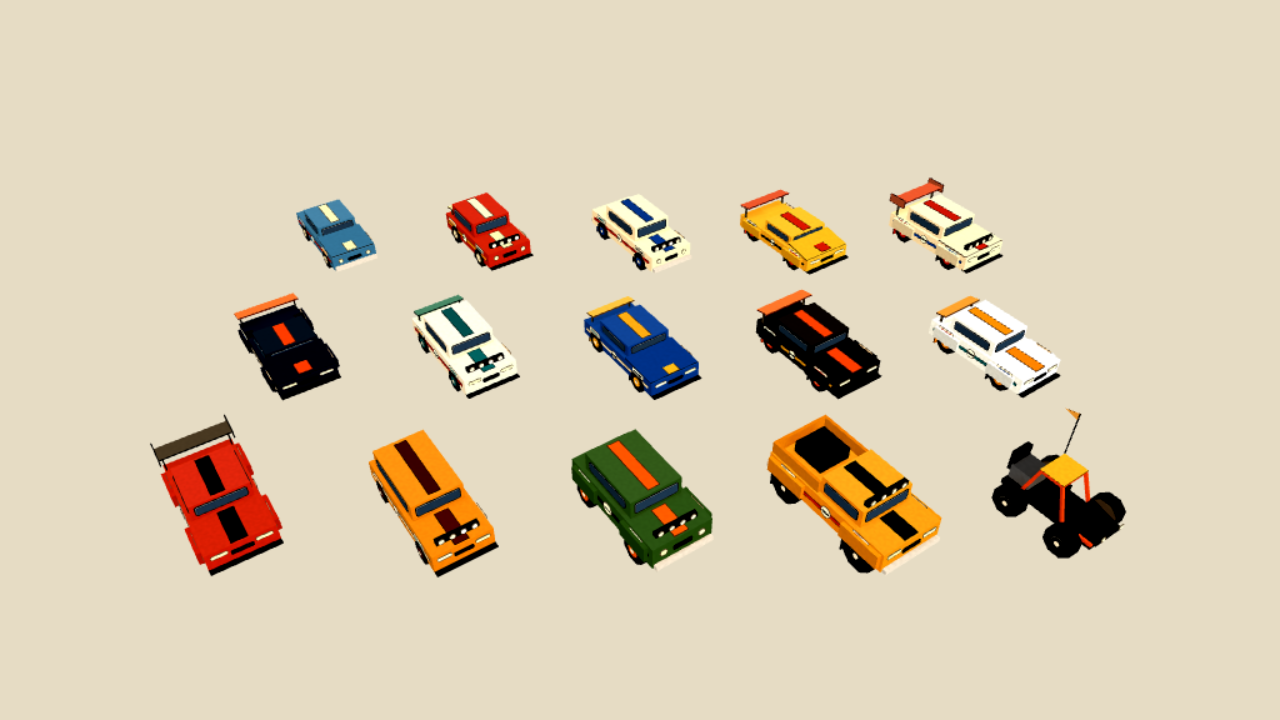
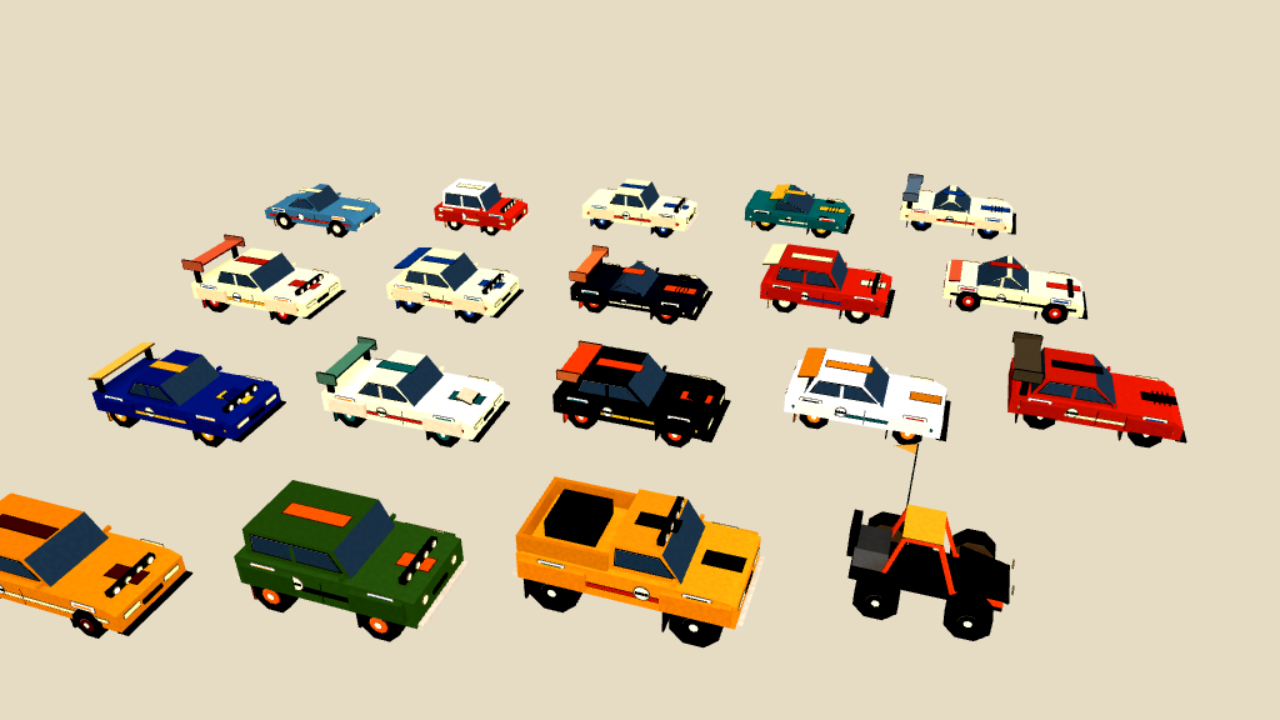
Brighter soft dipped headlights, results-screen test view, README and screenshots for round 4
Claude-Session: https://claude.ai/code/session_019LopR7CfQzTS2qzV1MAwgs

Changed region(s): [[0.0, 0.2444, 0.9375, 0.9167]]

diff --git a/README.md b/README.md
@@ -34,18 +34,18 @@ screenshots.
 | | |
 |---|---|
 | **Game modes** | **Time Trial** (best times, gold/silver/bronze medals and a ghost of your best run), **Championship** (6 series with points 10-8-6-4-2-1, including the always-at-night **Night Rally**), **Race vs AI** (head-to-head on one stage, 3 or 5 opponents) |
-| **Stages** | 27 procedurally generated point-to-point stages: 9 locations, each with a **Sprint (~1 km)**, **Classic (~2 km)** and **Marathon (~4 km)** layout. 3 dry (Meadow Run, Sandstone Canyon, Autumn Ridge), 3 rain (Moorland Mire, Pinewood Deluge, Harbour Lanes), 3 snow (Alpine Pass, Frozen Lakes, Twilight Taiga) |
+| **Stages** | 36 procedurally generated point-to-point stages: 9 locations, each as a **Sprint (4 km)**, **Classic (8 km)**, **Long (10 km)** and **Marathon (15 km)**. Layouts are pre-generated and ship with the game, and scenery streams in around the camera so long stages stay smooth. Some locations have **Armco barriers** (outside of fast bends, mountain roads) or **post-and-rail fencing** (farmland, moors), and both act as solid walls. Dry: Meadow Run, Sandstone Canyon, Autumn Ridge. Rain: Moorland Mire, Pinewood Deluge, Harbour Lanes. Snow: Alpine Pass, Frozen Lakes, Twilight Taiga |
 | **Altitude** | Every stage climbs, dips and rolls. A road altitude profile (overall climb, rolling undulation, maximum grade) and a landscape heightfield blend into each other. Hills, ridges and valleys rise and fall beside the road, drawn as stacked card contours. Climbs cost speed and descents add it, and crests can lift the car off the ground. Each location's layout and altitude are modelled on a real rally region: British farm lanes, Mexico / Acropolis mountain switchbacks, German vineyard ridges, Welsh moors, fast Finnish forest crests, Corsican coastal climbs, the Monte Carlo Col de Turini hairpin climb, the Swedish frozen lakes, Arctic forest |
-| **Time of day** | Day, Dusk or Night for any stage. At dusk and night every car's headlights light the road (the player's beam also casts shadows), lamp posts and cabin windows glow, and the shadows turn navy |
+| **Time of day** | Day, Dusk or Night for any stage. At dusk and night every car's twin dipped headlights light the road and verges with a soft, wide spread (the player's also cast shadows), lamp posts and cabin windows glow, and the shadows turn navy |
 | **Weather** | Rain: wet roads, puddles that splash and drag, paper rain streaks, about 72 % grip. Snow: paper snowflakes, cold lilac shadows, 49-56 % grip. Dry: dust trails |
-| **Cars** | 15 original cars (no real makes or liveries) covering the classes found across rally games: 1960s classic (Ventura 60), 1970s Group 2 (Pip 1300, Comet 1600), 1980s Group B (Strega B, Tempest S1), Group S prototype (Wraith S), 1990s Group A (Marten RS, Kestrel GT), 2000s WRC (Lynx Turbo), modern Rally2 (Fennec R2) and Rally1 (Vortex R1), estate (Otter Estate), off-road 4x4 (Badger 4x4), trophy truck (Mule Trophy) and dune buggy (Sandhopper). Rear-drive cars slide under power, front-drive cars understeer, four-wheel drive is neutral, and off-road machines shrug off rough ground. 3 liveries each, and they pick up visible paper damage in crashes |
+| **Cars** | 19 original cars with made-up names and no real badges or liveries. Their silhouettes evoke the classes and classics of rally games: sixties coupe (Ventura 60), Mini-style (Pip 1300), Escort-style (Comet 1600), Stratos-style wedge (Stiletto HF), Group B (Strega B, Quattro-style Tempest S1, 205-T16-style Lince T16), Group S (Wraith S), Delta-Integrale-style (Quadra Evo), Celica-GT-Four-style (Halcyon GT4), Impreza-style with gold wheels (Nimbus Turbo), Evo-style saloon (Marten RS), 2000s WRC (Lynx Turbo), Rally2 (Fennec R2), Rally1 (Vortex R1), estate, 4x4, trophy truck and dune buggy. Each is built from a side profile: raked screens, sloped bonnets, fastbacks, box arches, scoops, louvres, roof spoilers and wings. Rear-drive cars slide under power, front-drive cars understeer, and off-road machines shrug off rough ground. 3 liveries each |
 | **Volumetric effects** | Dust, snow, spray, tyre and exhaust smoke (backfires, launches), chimney smoke and water-splash bursts are 3D faceted paper puffs that swell and fade, lit like the rest of the world. Low mist is layered cut-paper sheets lying in the valleys |
 | **Signage** | Fictional sponsor A-frame banners (FOLDLINE OIL, CARDSTOCK TYRES, CREASE COLA, PULPWORKS, SCISSOR SPEED, ORIGAMI AIR), billboards, warning boards before every hazard, kilometre boards, flags at the start and finish |
 | **Destructible props** | Marker posts, signs, banners, bales, crates, tape, bushes, snowbanks and chevrons break and tumble away when hit, then lie on the ground. Trees, rocks, logs and buildings stay solid. Spectators jump back when you come close |
 | **Photo mode** | From the pause menu: orbit a free camera, adjust blur, focus and warmth, hide the UI and save PNGs (to the phone's Pictures/Paper Rally folder where allowed, otherwise the app's photos folder) |
 | **Hazards** | Built paper ramps for **crests and jumps** (real airtime, landing thud and rumble), **water splashes** (drag, spray, splash sound), **hay-bale chicanes**, **loose surfaces** (gravel, mud, ice, deep snow patches with less grip), and **roadside obstacles**: marker posts, plus rocks, logs and bales on the inside of tight bends to punish corner cutting. Crowds stand behind tape at jumps and splashes and cheer as you pass |
 | **Co-driver** | Pace-note cards for each upcoming bend (direction, severity 1-6, hairpins) and for every hazard (JUMP, CREST, SPLASH, CHICANE, GRAVEL, MUD, ICE, DEEP SNOW) |
-| **Camera views** | Tap the **camera icon** (top right), press Back/LB on a controller or C on a keyboard to cycle: Chase, Close chase, Far chase, High overhead, Top-down, Bonnet and **Cockpit**. Cockpit is an in-car view with a dashboard, pillars, a steering wheel that turns and a moving rev needle. Bonnet and Cockpit use a paper sky and fog |
+| **Camera views** | Tap the **camera icon** (top right), press Back/LB on a controller or C on a keyboard to cycle: Chase, Close chase, Far chase, Bonnet and **Cockpit**. Bonnet and Cockpit are mounted rigidly on the car, so they don't lag. Cockpit is an in-car view with a dashboard, pillars, a steering wheel that turns and a moving rev needle. Bonnet and Cockpit use a paper sky and fog |
 | **Living world** | Flocks of paper birds perch at fixed spots, pecking. They scatter when a car comes near, circle with flap-and-glide wingbeats while banking, then glide back down and land |
 | **Collisions** | Each car collides as its real box-shaped body, not a circle, so contact happens where the bodywork touches. Paper scraps burst from the contact point, and glancing blows nudge the car's yaw |
 | **Controllers** | Any Bluetooth or USB-C game controller (Xbox, PlayStation, 8BitDo and similar), with analog steering and triggers. All menus can be driven from the controller |
